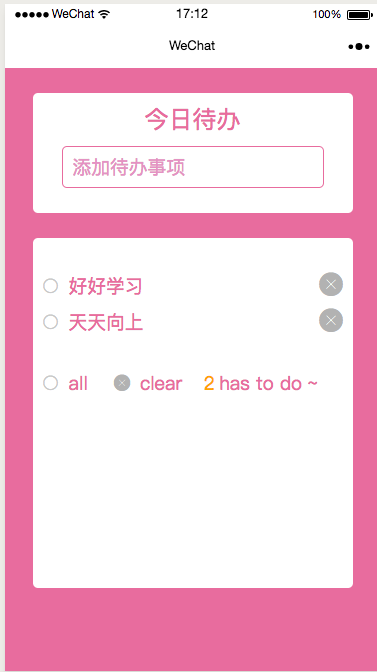
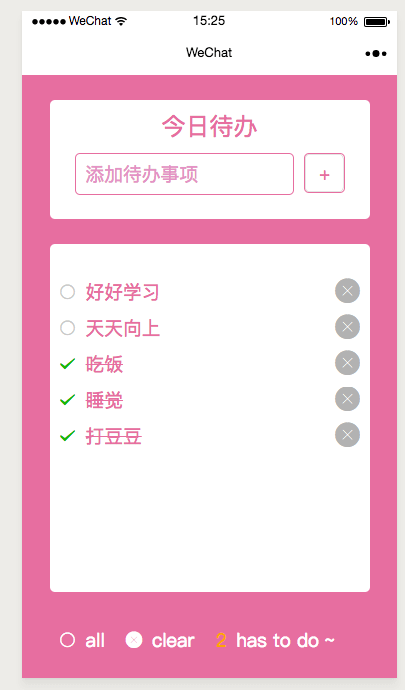
写完了

diff --git a/pages/index/index.js b/pages/index/index.js
@@ -2,6 +2,7 @@
 //获取应用实例
 const app = getApp()
 let pressStart;
+let touchStartTop;
 Page({
   data: {
     inputText: '',
@@ -32,8 +33,7 @@ Page({
     this.setData({
       inputText: '',
       todos: todos,
-      leftItems: this.data.leftItems + 1,
-      isFocus: true
+      leftItems: this.data.leftItems + 1
     });
 
     wx.setStorageSync('todos',todos);
@@ -125,13 +125,26 @@ Page({
   },
   touchStart: function(e) {
     pressStart = e.timeStamp;
+    touchStartTop = e.changedTouches[0].clientY;
   },
   touchEnd: function(e) {
     let pressTime = e.timeStamp - pressStart;
+    let move = e.changedTouches[0].clientY - touchStartTop;
+    if(Math.abs(move) > 5) {
+      this.setData({
+        isFocus: false
+      })
+    }
     if(pressTime >= 350) {
       this.setData({
       isFocus: true
       });
     }
+  },
+  cancelFocus: function(e) {
+    console.log('touch move');
+    this.setData({
+      isFocus: false
+    })
   }
 })
